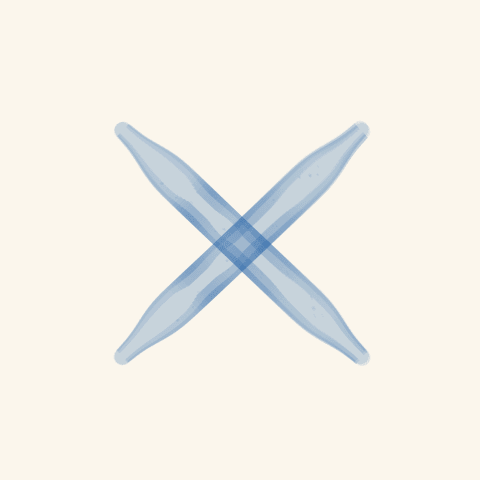
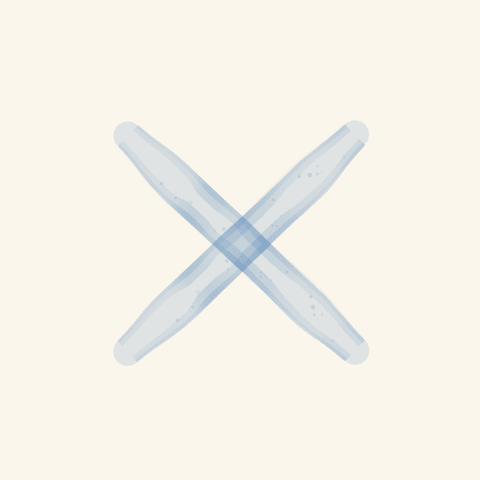
Wobble the watercolor edge without flaring the stroke.
One rough pass was painted twice, which widened the end of the curve. The wash now follows a single centreline. Bleed and variation offset each edge on its own, and the tips taper gradually.

Changed region(s): [[0.2188, 0.25, 0.7812, 0.7812]]

diff --git a/Sources/Sketchy/Render/WatercolorStroke.swift b/Sources/Sketchy/Render/WatercolorStroke.swift
@@ -35,30 +35,31 @@ enum WatercolorStroke {
         guard width >= 0.5, strokeOpacity > 0, style.pigment > 0 else { return [] }
         guard let primary = sets.first else { return [] }
         let lines = StrokeToFillConverter.centerlines(operations: primary, transform: transform)
-        guard !lines.isEmpty else { return [] }
+        // A rough outline is two offset passes. Painting both at full width
+        // makes the stroke flare where the passes separate, which is the wedge
+        // at the end of the curve. One smoothed centreline carries the wash.
+        guard let line = lines.max(by: { $0.samples.count < $1.samples.count }) else { return [] }
 
         var pieces: [RibbonPiece] = []
-        for line in lines {
-            for layer in 0..<style.layers {
-                pieces.append(contentsOf: glaze(
-                    line: line,
-                    width: width,
-                    brush: brush,
-                    style: style,
-                    strokeOpacity: strokeOpacity,
-                    layer: layer,
-                    edged: layer == 0,
-                    strength: 1 - 0.12 * CGFloat(layer)
-                ))
-            }
-            pieces.append(contentsOf: granules(
+        for layer in 0..<style.layers {
+            pieces.append(contentsOf: glaze(
                 line: line,
                 width: width,
                 brush: brush,
                 style: style,
-                strokeOpacity: strokeOpacity
+                strokeOpacity: strokeOpacity,
+                layer: layer,
+                edged: layer == 0,
+                strength: 1 - 0.12 * CGFloat(layer)
             ))
         }
+        pieces.append(contentsOf: granules(
+            line: line,
+            width: width,
+            brush: brush,
+            style: style,
+            strokeOpacity: strokeOpacity
+        ))
         return glazeCommands(pieces, color: color)
     }
 
@@ -275,7 +276,7 @@ enum WatercolorStroke {
         let sample = sampleCenter(center, at: t)
         let located = StrokeCenterSample(point: sample.point, tangent: sample.forward, t: sample.t)
         let half = halfWidth(at: located, forward: sample.forward, width: width, brush: brush, style: style, layer: 2, line: line)
-        let radius = half * (0.025 + 0.055 * size) * radiusScale
+        let radius = half * (0.04 + 0.07 * size) * radiusScale
         guard radius >= 0.3 else { return }
         let normal = sample.forward + .pi / 2
         let reach = across * half * 0.62
@@ -285,7 +286,7 @@ enum WatercolorStroke {
         )
         let fade = line.isClosed ? 1 : tipScale(sample.t)
         let profile = alongOpacity(sample.t, closed: line.isClosed, brush: brush, strokeOpacity: strokeOpacity)
-        let opacity = CGFloat(style.pigment) * profile * fade * (0.05 + 0.09 * tone) * radiusScale
+        let opacity = CGFloat(style.pigment) * profile * fade * (0.12 + 0.16 * tone) * radiusScale
         pieces.append(RibbonPiece(path: ellipse(center: dot, radius: radius), opacity: min(1, opacity), t: sample.t))
     }
 
@@ -352,30 +353,28 @@ enum WatercolorStroke {
         )
         let built = center.enumerated().map { index, sample -> Station in
             let half = halves[index]
-            let cap = max(0.9, sample.radius * 0.82)
+            let cap = max(0.9, sample.radius * 0.92)
             var left = half
             var right = half
-            if sample.curvature > 0.002 {
+            if sample.curvature > 0.004 {
                 left = min(half, cap)
-            } else if sample.curvature < -0.002 {
+            } else if sample.curvature < -0.004 {
                 right = min(half, cap)
             }
+            // The centreline stays smooth. Only the offset distance wobbles,
+            // and each side has its own seed so the edges do not mirror.
+            left += edgeWobble(at: sample.t, side: 1, width: width, style: style, layer: layer, closed: line.isClosed)
+            right += edgeWobble(at: sample.t, side: -1, width: width, style: style, layer: layer, closed: line.isClosed)
+            left = max(0.35, left)
+            right = max(0.35, right)
             let shift = shiftAmount(at: sample.t, closed: line.isClosed, style: style, width: width, layer: layer)
             let normalAngle = sample.forward + .pi / 2
             let nx = cos(normalAngle)
             let ny = sin(normalAngle)
-            var point = CGPoint(
+            let point = CGPoint(
                 x: sample.point.x + nx * shift,
                 y: sample.point.y + ny * shift
             )
-            // Slide the open tips out along the stroke so the semicircle sits
-            // past the shoulder. Both ends use the same fraction of the width.
-            if !line.isClosed, index == 0 || index == center.count - 1 {
-                let outward = index == 0 ? sample.forward + .pi : sample.forward
-                let reach = max(left, right) * 0.9
-                point.x += cos(outward) * reach
-                point.y += sin(outward) * reach
-            }
             let innerScale = 1 - 0.22 * CGFloat(style.edgeDarkening)
             return Station(
                 center: point,
@@ -389,7 +388,47 @@ enum WatercolorStroke {
                 t: sample.t
             )
         }
-        return smoothEdges(built, closed: line.isClosed)
+        return built
+    }
+
+    /// Irregular wet edge. Low-frequency drift, a smaller ripple, and an
+    /// occasional outward bleed. Amplitude follows `bleed` and `variation`
+    /// and the stroke width. It fades out through the tip taper.
+    private static func edgeWobble(
+        at t: CGFloat,
+        side: CGFloat,
+        width: CGFloat,
+        style: WatercolorStyle,
+        layer: Int,
+        closed: Bool
+    ) -> CGFloat {
+        let amount = CGFloat(style.bleed) * 0.7 + CGFloat(style.variation) * 0.55
+        guard amount > 0.02 else { return 0 }
+        let seed = style.seed &+ UInt64(layer) &* 19 &+ (side > 0 ? 5 : 31)
+        // Several bumps along the stroke, not one swell that fattens a whole arm.
+        let low = signed(t, cycles: 4.2, seed: seed, closed: closed)
+        let mid = signed(t, cycles: 8.5, seed: seed &+ 13, closed: closed)
+        let high = signed(t, cycles: 15, seed: seed &+ 27, closed: closed)
+        var wobble = (low * 0.5 + mid * 0.34 + high * 0.22) * width * 0.11 * amount
+        let gate = SeededNoise.unit(at: Float(t * 6.5 + (side > 0 ? 0.4 : 1.7)), seed: seed &+ 47)
+        if gate > 0.72 {
+            let bulge = (CGFloat(gate) - 0.72) / 0.28
+            wobble += bulge * width * 0.09 * amount
+        }
+        // Wet paint spreads out. A deep inward bite reads as a pinch before the tip.
+        let inward = -width * 0.035 * amount
+        if wobble < inward { wobble = inward }
+        let fade = closed ? 1 : tipFade(t)
+        return wobble * fade
+    }
+
+    /// 0 at the tip, 1 once the taper is over, so the round end stays smooth.
+    private static func tipFade(_ t: CGFloat) -> CGFloat {
+        let edge = min(max(0, t), max(0, 1 - t))
+        let window: CGFloat = 0.2
+        guard edge < window else { return 1 }
+        let mix = edge / window
+        return mix * mix * (3 - 2 * mix)
     }
 
     /// Averages the centreline in point space, then takes one stable tangent.
@@ -449,32 +488,6 @@ enum WatercolorStroke {
             return (0..<points.count).map { lengths[$0] / total }
         }
         return lengths.map { $0 / total }
-    }
-
-    /// Pulls each edge toward its neighbours so a leftover kink cannot tooth the rim.
-    private static func smoothEdges(_ stations: [Station], closed: Bool) -> [Station] {
-        guard stations.count >= 3 else { return stations }
-        var copy = stations
-        for _ in 0..<2 {
-            var next = copy
-            for index in copy.indices {
-                if !closed, index == 0 || index == copy.count - 1 { continue }
-                let previous = neighbor(index - 1, count: copy.count, closed: closed)
-                let following = neighbor(index + 1, count: copy.count, closed: closed)
-                next[index].outerLeft = mix(
-                    copy[index].outerLeft,
-                    midpoint(copy[previous].outerLeft, copy[following].outerLeft),
-                    0.5
-                )
-                next[index].outerRight = mix(
-                    copy[index].outerRight,
-                    midpoint(copy[previous].outerRight, copy[following].outerRight),
-                    0.5
-                )
-            }
-            copy = next
-        }
-        return copy
     }
 
     private static func halfWidth(
@@ -711,10 +724,6 @@ enum WatercolorStroke {
         }
     }
 
-    private static func midpoint(_ a: CGPoint, _ b: CGPoint) -> CGPoint {
-        CGPoint(x: (a.x + b.x) * 0.5, y: (a.y + b.y) * 0.5)
-    }
-
     private static func mix(_ from: CGPoint, _ to: CGPoint, _ amount: CGFloat) -> CGPoint {
         CGPoint(
             x: from.x + (to.x - from.x) * amount,
@@ -754,12 +763,12 @@ enum WatercolorStroke {
 
     /// Open strokes narrow into a round tip instead of a square cut.
     private static func tipScale(_ t: CGFloat) -> CGFloat {
-        let window: CGFloat = 0.18
+        let window: CGFloat = 0.2
         let edge = min(max(0, t), max(0, 1 - t))
         if edge >= window { return 1 }
         let mix = edge / window
         let smooth = mix * mix * (3 - 2 * mix)
-        return 0.42 + 0.58 * smooth
+        return 0.72 + 0.28 * smooth
     }
 
     private static func alongOpacity(

diff --git a/Sources/Sketchy/Engine/BrushProfile.swift b/Sources/Sketchy/Engine/BrushProfile.swift
@@ -584,7 +584,8 @@ public struct BrushProfile: Equatable, Hashable, Sendable {
     /// `watercolor()` with the defaults equals `.watercolor`. `variation` stores
     /// `ThicknessProfile.variable` and an `OpacityProfile.noise` curve. The wash
     /// does not follow that thickness swell: a slow peak was fattening one end.
-    /// The painted ribbon stays an even width, and both tips taper the same way.
+    /// The painted base width stays even, and both tips taper the same way.
+    /// `bleed` and `variation` wobble each edge.
     /// `seed` repeats the wash. `WatercolorStyle.defaultSeed` (`1`) yields to `Options.seed`.
     ///
     /// The outline is the wash. `.fillStyle(.watercolor)` uses this style for a

diff --git a/DOCUMENTATION.md b/DOCUMENTATION.md
@@ -864,7 +864,7 @@ RoughView()
 
 `BrushProfile.watercolor(...)` paints a wash on the outline. `.watercolor` is that call with the defaults.
 
-The body is one ribbon around a smoothed centreline, so a tight bend stays an even width instead of flaring or toothing. The centre is lighter. One broken rim is darker and fades along the stroke, with a fainter strip blending it into the body. It is not a continuous outline. Open strokes taper into a round tip. There is no blur. `variation` stores `ThicknessProfile.variable` and sets `OpacityProfile.noise`. The painted ribbon does not follow that thickness swell, so the width stays even and both tips taper the same way. `layers` is how many body glazes are laid down, from 1 to 5. Only the first glaze carries the rim. Each glaze is a translucent fill, so a crossing goes darker. The variable-opacity stroke still uses one mask. The same `seed` repeats the wash. `WatercolorStyle.defaultSeed` (`1`) yields to `Options.seed`.
+The body is one ribbon around a smoothed centreline. The base width stays even, and both tips taper gradually into a round end. `bleed` and `variation` wobble the offset on each side separately: a slow drift, a finer ripple, and an occasional outward bleed. Later glazes use a different edge, so the rims do not line up. The darker rim follows that wobbled edge and fades along the stroke, with a fainter strip blending it into the body. It is not a continuous outline. Open strokes taper into a round tip. There is no blur. `variation` stores `ThicknessProfile.variable` and sets `OpacityProfile.noise`. The painted ribbon does not follow that thickness swell, so the width stays even and both tips taper the same way. `layers` is how many body glazes are laid down, from 1 to 5. Only the first glaze carries the rim. Each glaze is a translucent fill, so a crossing goes darker. The variable-opacity stroke still uses one mask. The same `seed` repeats the wash. `WatercolorStyle.defaultSeed` (`1`) yields to `Options.seed`.
 
 ### Watercolor fill
 

diff --git a/CHANGELOG.md b/CHANGELOG.md
@@ -2,7 +2,7 @@
 
 ## Unreleased
 
-- `BrushProfile.watercolor(pigment:wetness:edgeDarkening:layers:variation:bleed:seed:)` and `.watercolor` paint a wash along the outline. The body stays lighter. One broken rim is darker and fades along the stroke. The ribbon is an even width. A slow thickness swell is not painted, because it fattened the start of a seeded stroke, and both tips taper the same way. Specks are scattered from a seed instead of stepped along the stroke. Glazes are ordinary translucent fills, so a crossing goes darker. `bleed` wanders the edge. It does not blur. The same seed repeats the wash. `WatercolorStyle.defaultSeed` (`1`) yields to `Options.seed`. A watercolor brush shares its style with `.fillStyle(.watercolor)`.
+- `BrushProfile.watercolor(pigment:wetness:edgeDarkening:layers:variation:bleed:seed:)` and `.watercolor` paint a wash along the outline. The body stays lighter. One broken rim is darker and fades along the stroke. The ribbon's base width stays even and both tips taper gradually. `bleed` and `variation` wobble each edge independently, with a low-frequency drift, a finer ripple, and an occasional outward bleed. Glaze layers do not share that edge. Specks are scattered from a seed. Glazes are ordinary translucent fills, so a crossing goes darker. `bleed` wanders the edge. It does not blur. The same seed repeats the wash. `WatercolorStyle.defaultSeed` (`1`) yields to `Options.seed`. A watercolor brush shares its style with `.fillStyle(.watercolor)`.
 
 ## [1.3.0] - 2026-11-03
 

diff --git a/README.md b/README.md
@@ -133,7 +133,7 @@ RoughView()
 
 ### Watercolor
 
-`.brushProfile(.watercolor)` paints a lighter wash with a broken darker rim, a little grain, and round tapered ends. The ribbon stays an even width on a tight bend. Passes stack, so a crossing goes darker. `.fillStyle(.watercolor)` clips a wash to the shape. When the brush is watercolor, the fill uses that style.
+`.brushProfile(.watercolor)` paints a lighter wash with a broken darker rim, a little grain, and round tapered ends. The base width stays even. `bleed` and `variation` make each edge wander, so the outline is not a smooth offset. Passes stack, so a crossing goes darker. `.fillStyle(.watercolor)` clips a wash to the shape. When the brush is watercolor, the fill uses that style.
 
 ![Watercolor stroke](docs/images/brushes/watercolor.png)
 
